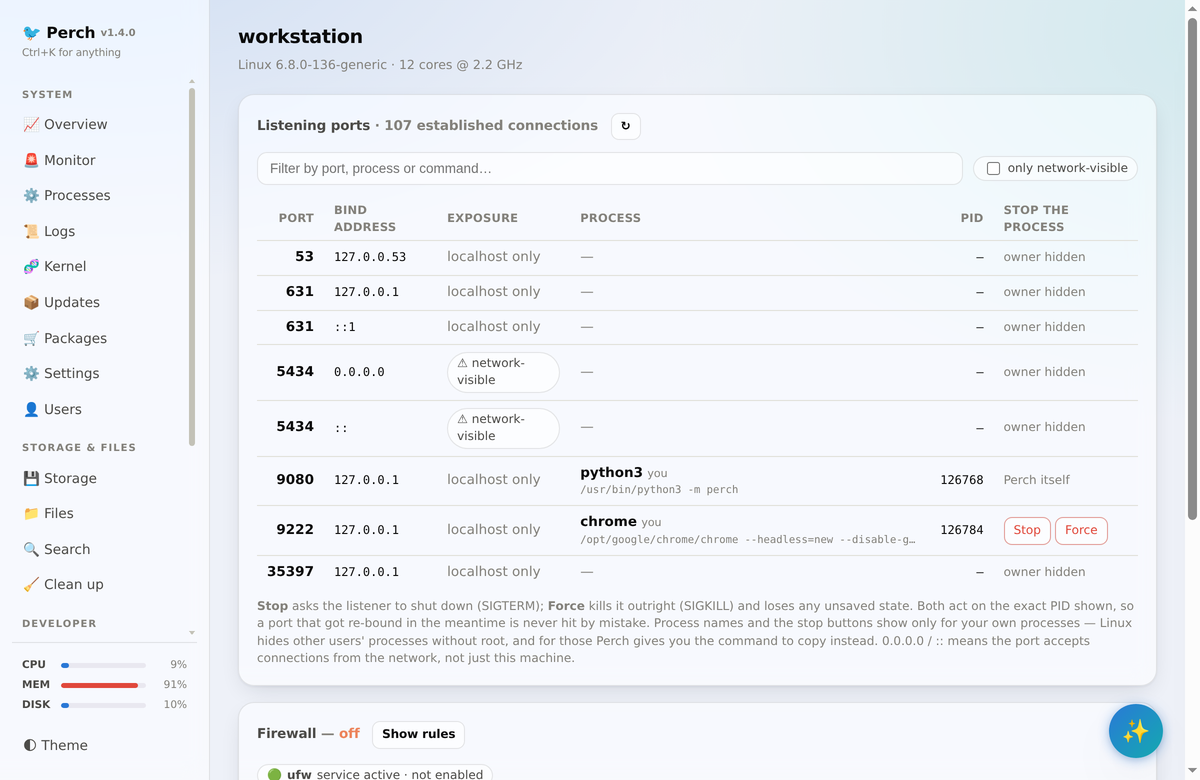
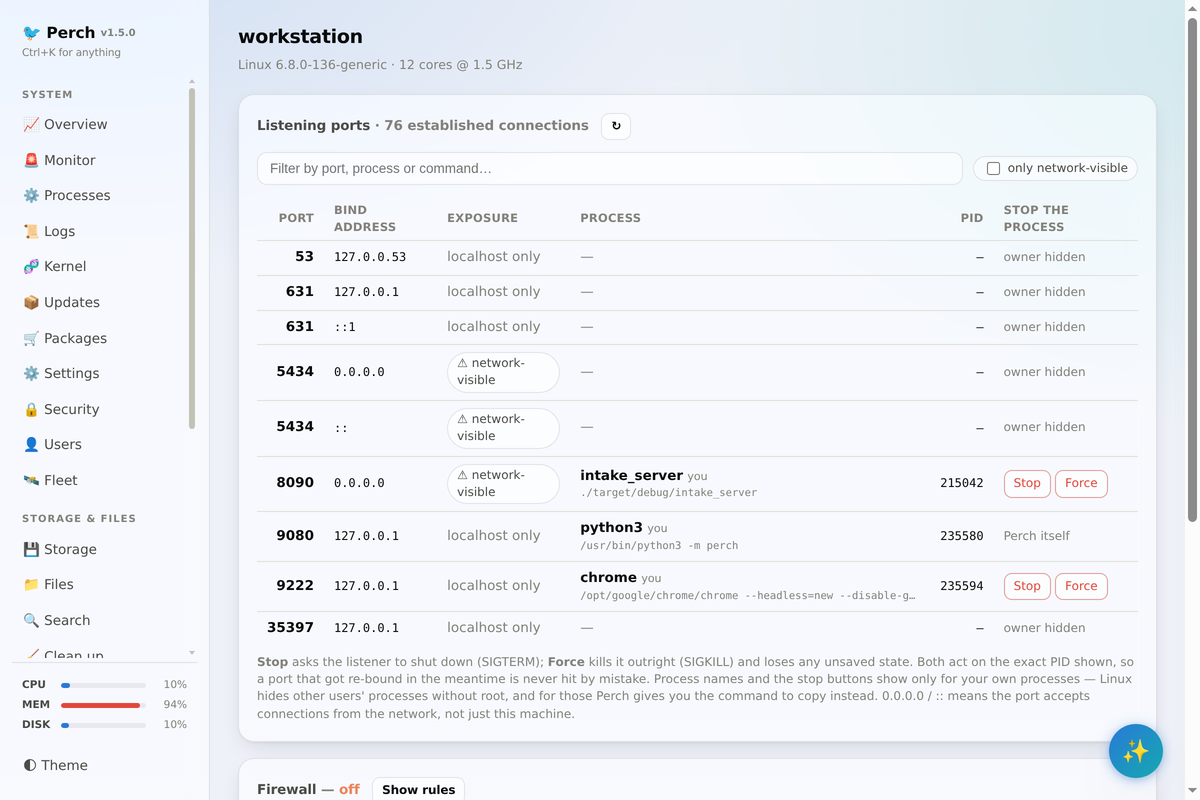
docs: refresh screenshots for 1.5.0
Every screenshot showed a sidebar without Security, Fleet or Traffic, so all of
them were retaken against the merged build rather than patched around, and the
tour GIF was rebuilt to walk the tabs as they now are. Adds screenshots for the
two new pages that had none.

Redactions follow the existing practice: hostname as "workstation", login name
as "you", LAN address as a placeholder — extended here to the two identifiers
these pages newly expose, the accounts in the sudo group and the external
addresses this machine happens to talk to, which are documentation-range now.

diff --git a/README.md b/README.md
@@ -82,6 +82,9 @@ step, no cloud.
   failed logins from the journal grouped by source, `sshd_config` red flags,
   admin-group membership and automatic-update status. Scored, worst first,
   read-only.
+
+  ![Security — scored findings, ports reachable from the network, failed logins and admin accounts](docs/security.png)
+
 - **Fleet** — other machines running Perch, in one grid. Each is polled over
   its own read-only API, so there is no agent to install; their tokens are
   stored chmod 600 and never sent to the browser.
@@ -89,7 +92,7 @@ step, no cloud.
   any process in a detail modal, browse the journal live, read kernel
   tunables, and see pending APT updates with a sidebar badge.
 
-![Tab tour — Overview, Monitor alerts, installed packages, Network ports & firewall, Storage, and Settings](docs/tour.gif)
+![Tab tour — Overview, Monitor, Security, Traffic, installed packages and Storage](docs/tour.gif)
 
 ### Manage storage & files
 - **Storage** — disk usage plus a folder-size analyzer to find what's eating
@@ -129,6 +132,9 @@ step, no cloud.
   `.pcap` you can read in place or download for Wireshark. Capture needs a
   password prompt and records everything on the wire, including credentials on
   unencrypted protocols, so it is always deliberate.
+
+  ![Traffic — per-interface rates with error and drop counters, and every live connection with its process](docs/traffic.png)
+
 - **Dev** — Docker containers with live stats, logs, shell, compose control
   and prune, plus **disk usage** showing what images, containers, volumes and
   build cache actually cost and how much a prune would reclaim; systemd user
